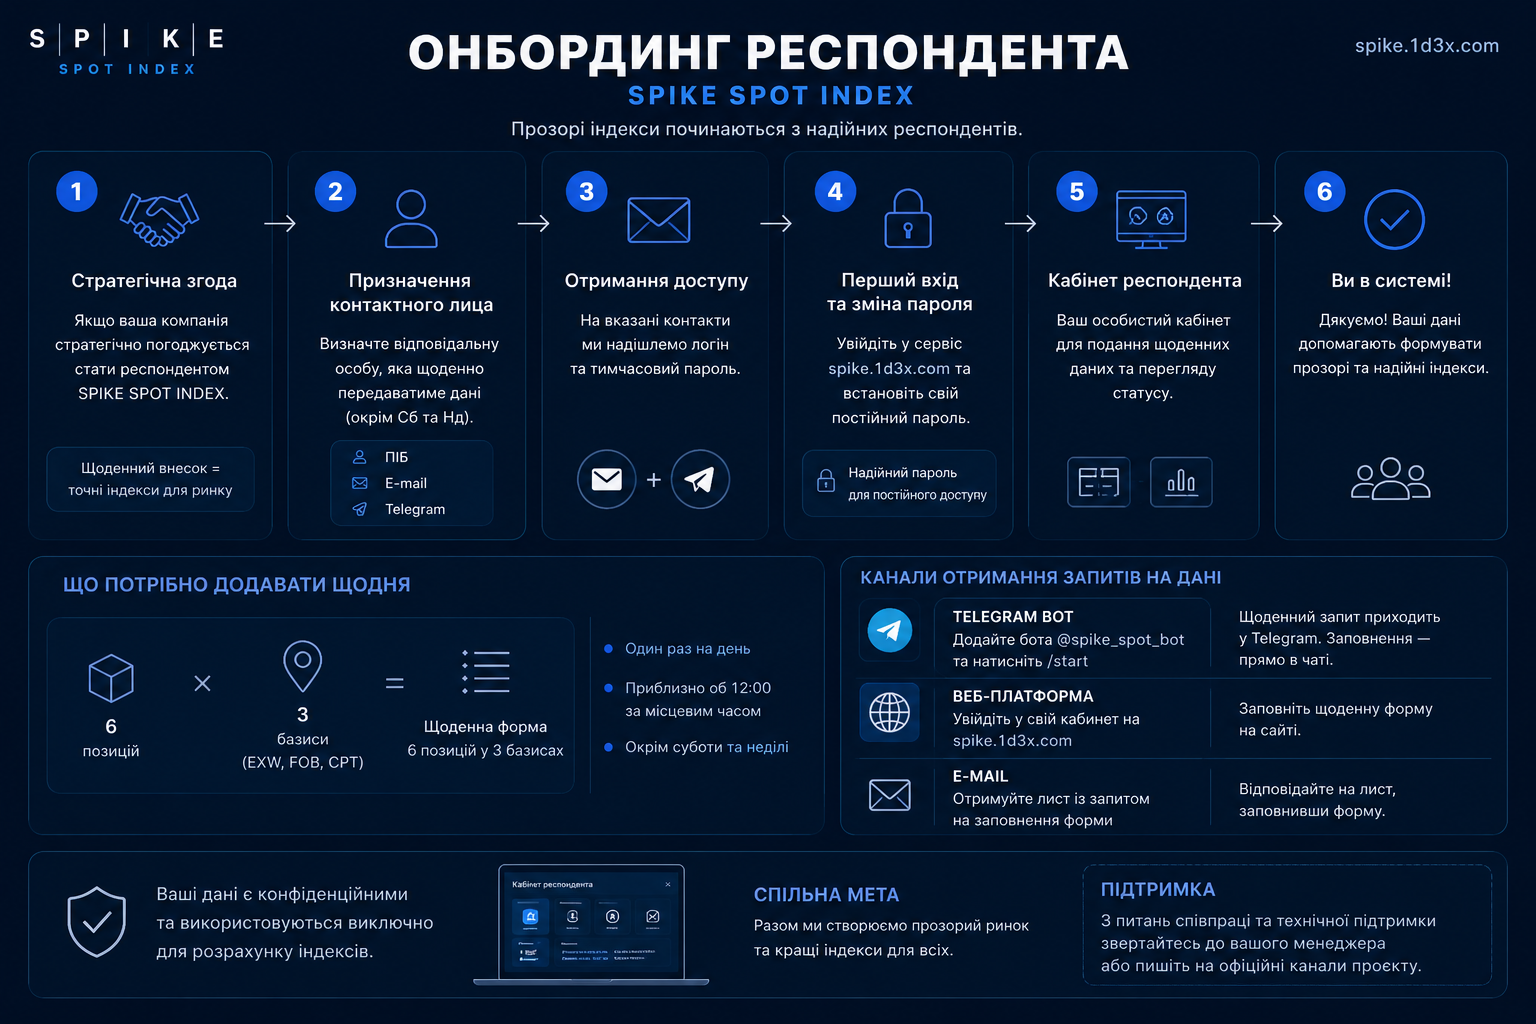
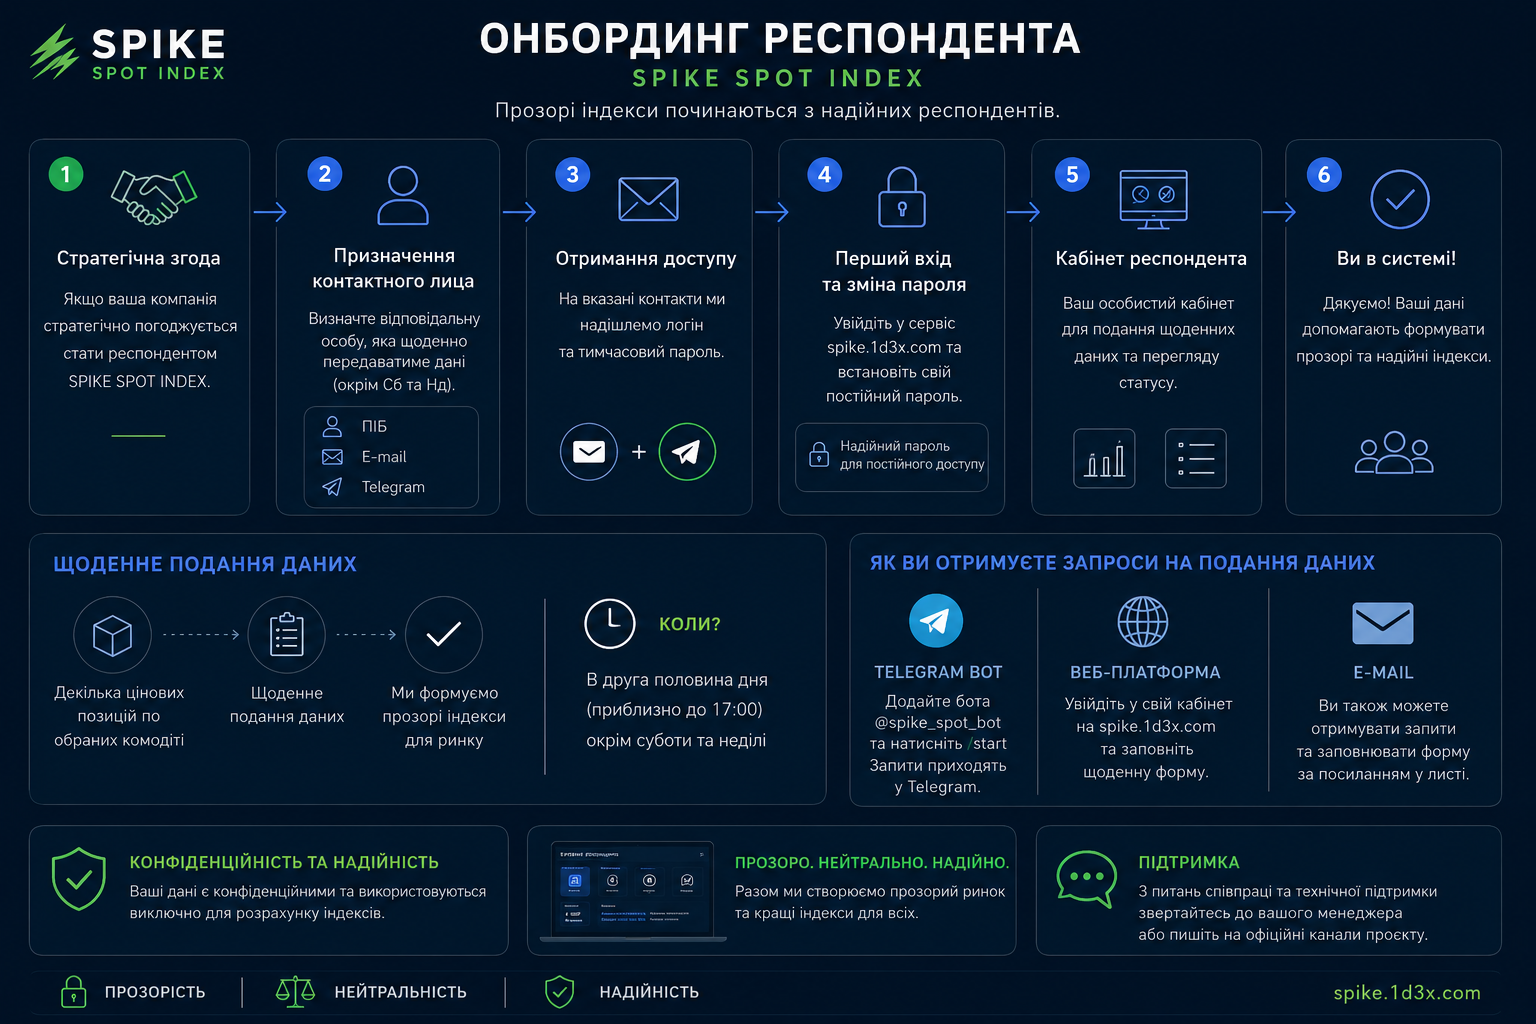
Refine Spike UA respondent onboarding preview

diff --git a/src/components/subscription/respondent-onboarding-preview.tsx b/src/components/subscription/respondent-onboarding-preview.tsx
@@ -24,65 +24,71 @@ export function RespondentOnboardingPreview({
 
   return (
     <>
-      <div className="rounded-[1.15rem] border border-white/14 bg-[linear-gradient(135deg,rgba(248,248,242,0.08),rgba(248,248,242,0.03))] p-3 sm:p-4">
-        <div className="flex flex-wrap items-start justify-between gap-3">
+      <div className="rounded-[1.15rem] border border-white/14 bg-[linear-gradient(135deg,rgba(248,248,242,0.08),rgba(248,248,242,0.03))] p-4 sm:p-5">
+        <div className="grid gap-4 md:grid-cols-[minmax(0,1fr)_12rem] md:items-end">
           <div className="min-w-0">
             <p className="text-[10px] font-black uppercase tracking-[0.24em] text-[var(--spike-accent)]">
               {eyebrow}
             </p>
-            <p className="mt-2 max-w-xl text-sm leading-6 text-white/68">
+            <p className="mt-2 max-w-md text-sm leading-6 text-white/68">
               {hint}
             </p>
+            <div className="mt-4 flex flex-wrap items-center gap-3">
+              <a
+                className="inline-flex min-h-11 items-center rounded-full border border-[var(--spike-accent)] bg-[var(--spike-accent)] px-4 py-2 text-[11px] font-black uppercase tracking-[0.14em] text-[#050505] transition hover:bg-transparent hover:text-[var(--spike-accent)]"
+                download
+                href={downloadHref}
+              >
+                {downloadLabel}
+              </a>
+              <span className="text-[11px] font-semibold uppercase tracking-[0.14em] text-white/55">
+                {previewLabel}
+              </span>
+            </div>
           </div>
-          <a
-            className="inline-flex shrink-0 rounded-full border border-white/16 bg-black px-4 py-2 text-[11px] font-black uppercase tracking-[0.14em] text-white transition hover:border-[var(--spike-accent)] hover:bg-[var(--spike-accent)] hover:text-black"
-            download
-            href={downloadHref}
+
+          <button
+            className="group relative ml-auto block w-full max-w-[12rem] overflow-hidden rounded-[1rem] border border-[var(--spike-accent)]/80 bg-[#123548] text-left shadow-[0_18px_40px_rgba(0,0,0,0.28)]"
+            onClick={() => setIsOpen(true)}
+            type="button"
           >
-            {downloadLabel}
-          </a>
-        </div>
-        <button
-          className="group relative mt-4 block w-full overflow-hidden rounded-[0.95rem] border border-white/12 bg-black text-left"
-          onClick={() => setIsOpen(true)}
-          type="button"
-        >
-          <div className="absolute inset-0 bg-gradient-to-tr from-black/35 via-transparent to-[var(--spike-accent)]/12 opacity-90 transition group-hover:opacity-100" />
-          <Image
-            alt={alt}
-            className="aspect-[16/9] w-full object-cover object-top transition duration-300 group-hover:scale-[1.02]"
-            height={900}
-            priority={false}
-            src={downloadHref}
-            width={1600}
-          />
-          <div className="absolute inset-x-3 bottom-3 flex items-center justify-between gap-3 rounded-[0.9rem] border border-white/14 bg-black/78 px-3 py-2">
-            <div>
+            <div className="absolute inset-0 bg-gradient-to-t from-[#071017]/88 via-transparent to-transparent" />
+            <Image
+              alt={alt}
+              className="aspect-[1/1.18] w-full object-cover object-left-top transition duration-300 group-hover:scale-[1.03]"
+              height={1024}
+              priority={false}
+              src={downloadHref}
+              width={1536}
+            />
+            <div className="absolute inset-x-3 bottom-3 rounded-[0.85rem] border border-white/10 bg-black/72 px-3 py-2">
               <p className="text-[10px] font-black uppercase tracking-[0.18em] text-[var(--spike-accent)]">
                 Respondent flow
               </p>
-              <p className="mt-1 text-xs font-semibold text-white/82">
-                {previewLabel}
-              </p>
+              <div className="mt-1 flex items-center justify-between gap-3">
+                <p className="text-xs font-semibold text-white/84">
+                  {previewLabel}
+                </p>
+                <span className="inline-flex h-8 w-8 items-center justify-center rounded-full border border-white/16 bg-white/8 text-white transition group-hover:border-[var(--spike-accent)] group-hover:text-[var(--spike-accent)]">
+                  <svg
+                    aria-hidden="true"
+                    className="h-4 w-4"
+                    fill="none"
+                    viewBox="0 0 24 24"
+                  >
+                    <path
+                      d="M11 4a7 7 0 1 0 0 14a7 7 0 0 0 0-14Zm0 0c1.87 0 3.57.73 4.83 1.93M20 20l-4.2-4.2"
+                      stroke="currentColor"
+                      strokeLinecap="round"
+                      strokeLinejoin="round"
+                      strokeWidth="1.8"
+                    />
+                  </svg>
+                </span>
+              </div>
             </div>
-            <span className="inline-flex h-9 w-9 items-center justify-center rounded-full border border-white/16 bg-white/8 text-white transition group-hover:border-[var(--spike-accent)] group-hover:text-[var(--spike-accent)]">
-              <svg
-                aria-hidden="true"
-                className="h-4 w-4"
-                fill="none"
-                viewBox="0 0 24 24"
-              >
-                <path
-                  d="M11 4a7 7 0 1 0 0 14a7 7 0 0 0 0-14Zm0 0c1.87 0 3.57.73 4.83 1.93M20 20l-4.2-4.2"
-                  stroke="currentColor"
-                  strokeLinecap="round"
-                  strokeLinejoin="round"
-                  strokeWidth="1.8"
-                />
-              </svg>
-            </span>
-          </div>
-        </button>
+          </button>
+        </div>
       </div>
 
       {isOpen ? (
@@ -109,7 +115,7 @@ export function RespondentOnboardingPreview({
               </div>
               <div className="flex items-center gap-2">
                 <a
-                  className="inline-flex rounded-full border border-white/16 bg-black px-4 py-2 text-[11px] font-black uppercase tracking-[0.14em] text-white transition hover:border-[var(--spike-accent)] hover:bg-[var(--spike-accent)] hover:text-black"
+                  className="inline-flex rounded-full border border-[var(--spike-accent)] bg-[var(--spike-accent)] px-4 py-2 text-[11px] font-black uppercase tracking-[0.14em] text-[#050505] transition hover:bg-transparent hover:text-[var(--spike-accent)]"
                   download
                   href={downloadHref}
                 >
